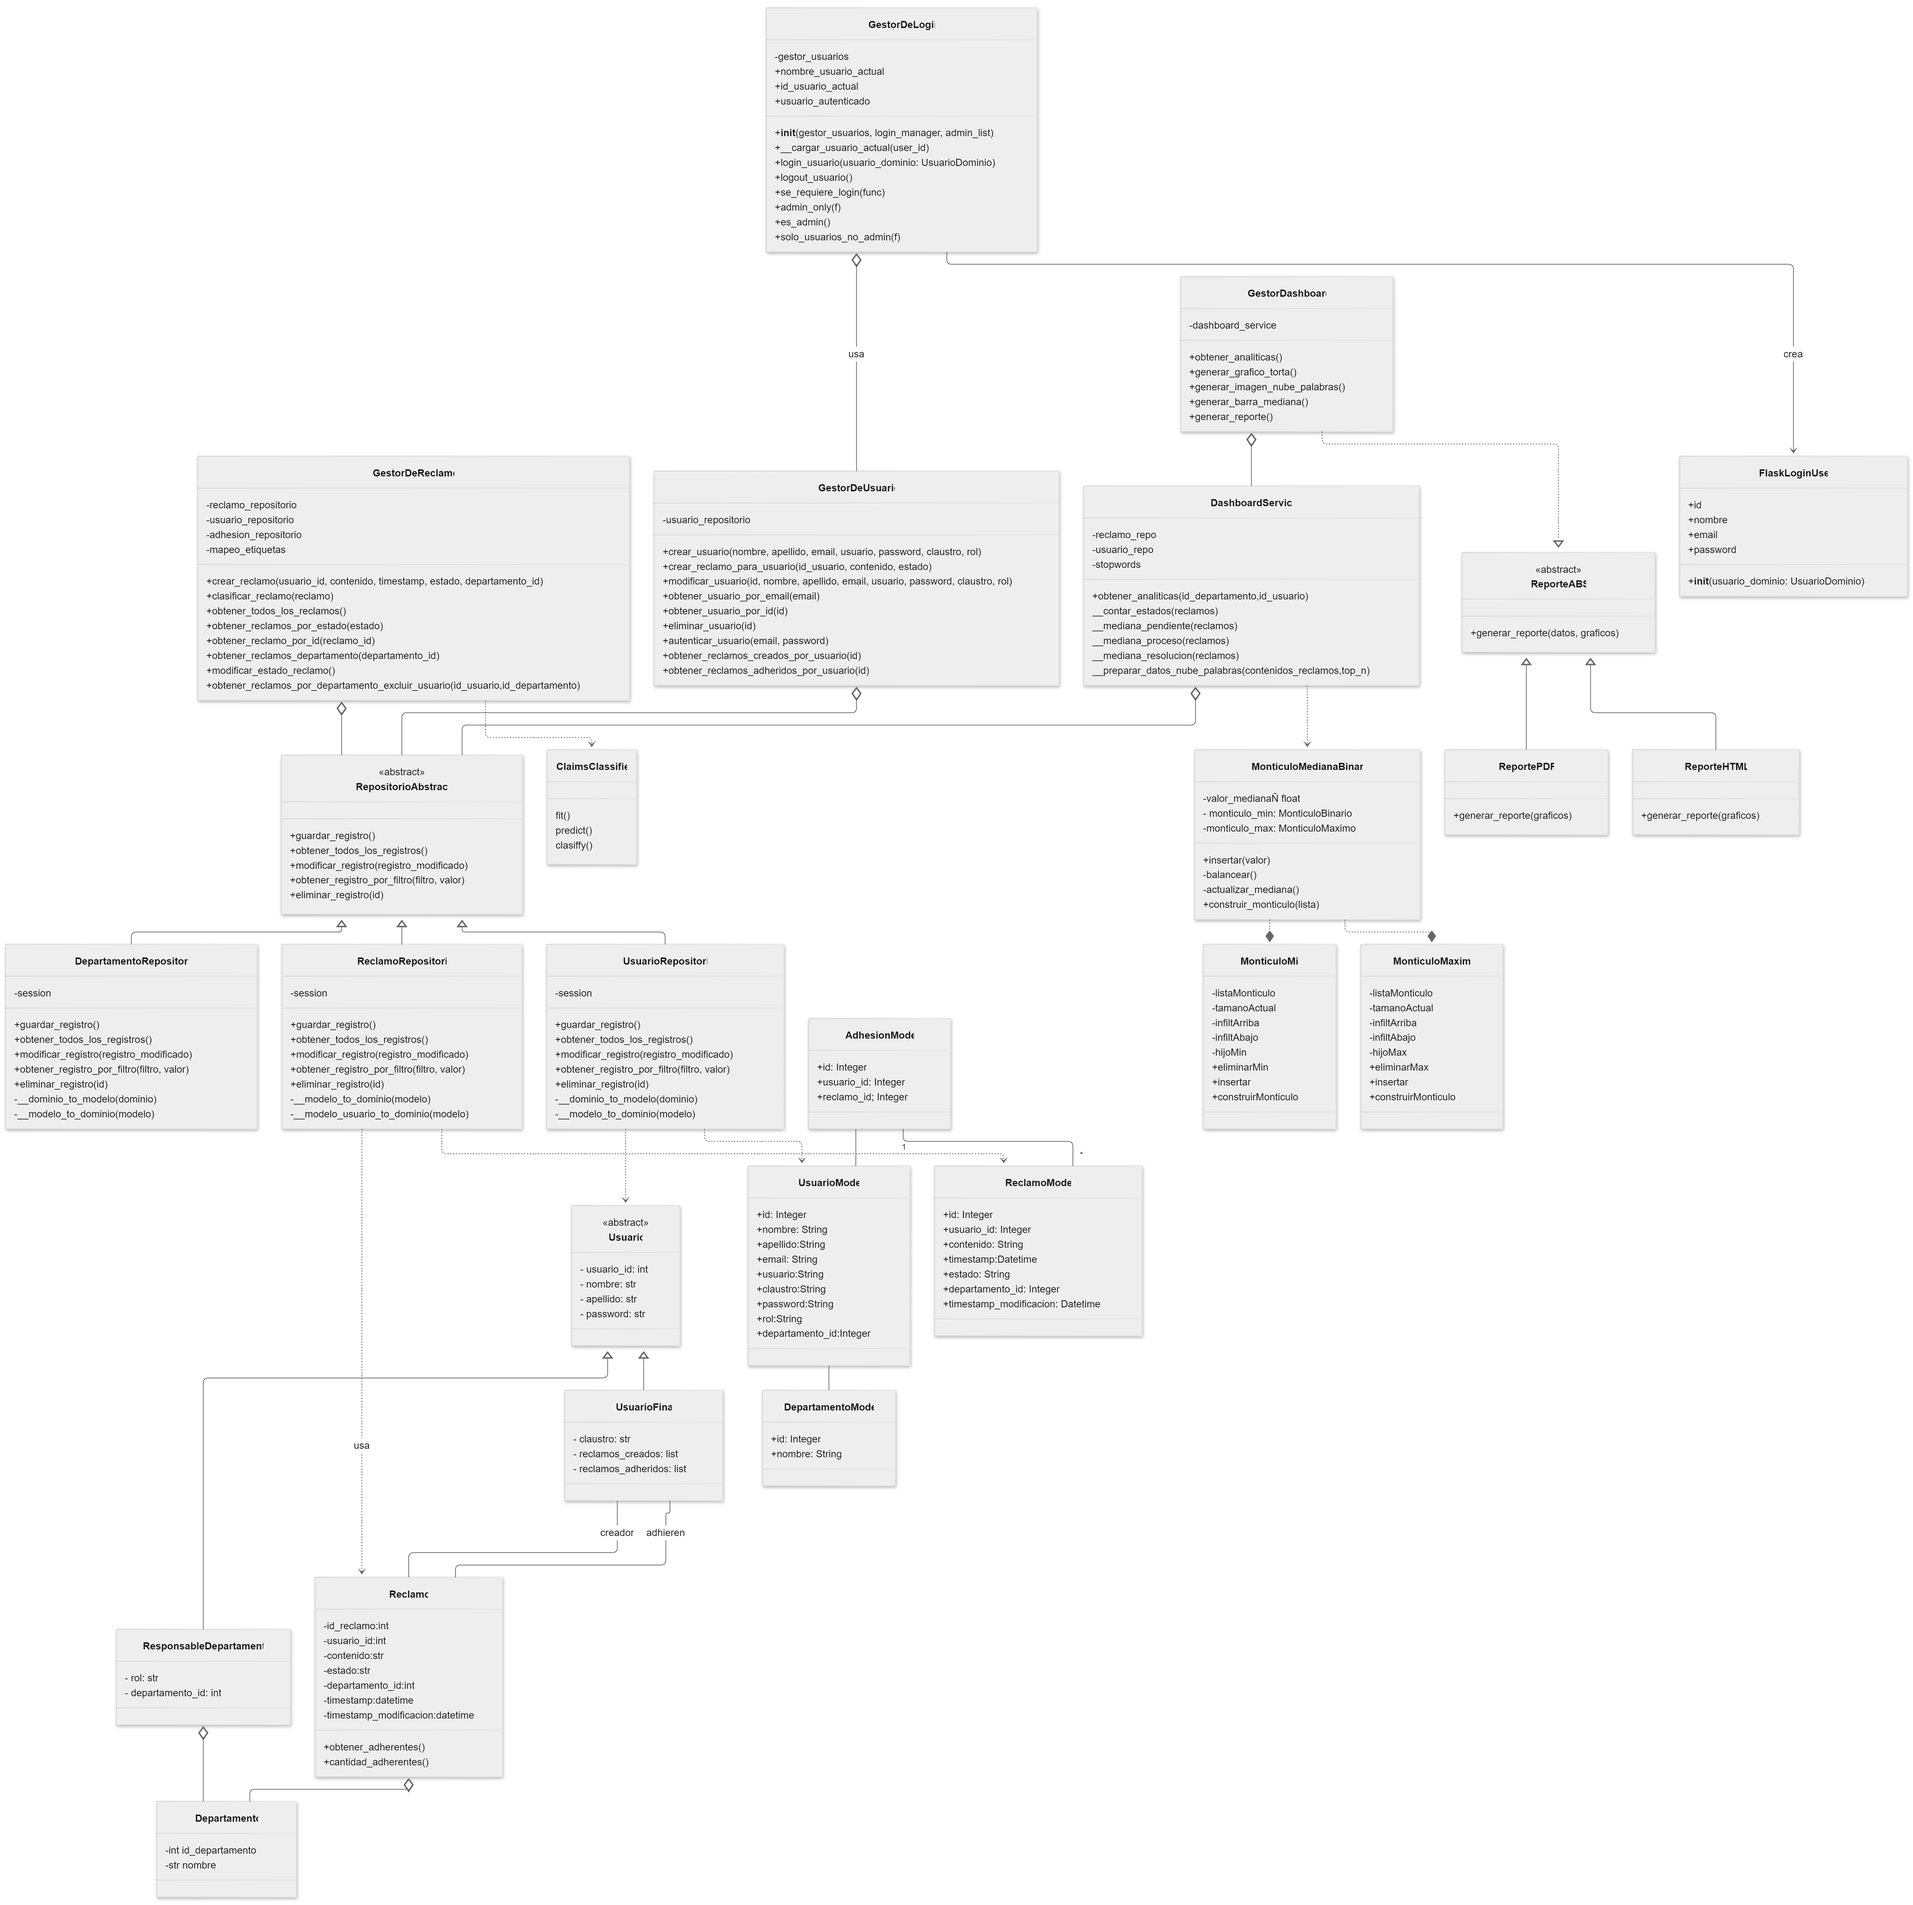
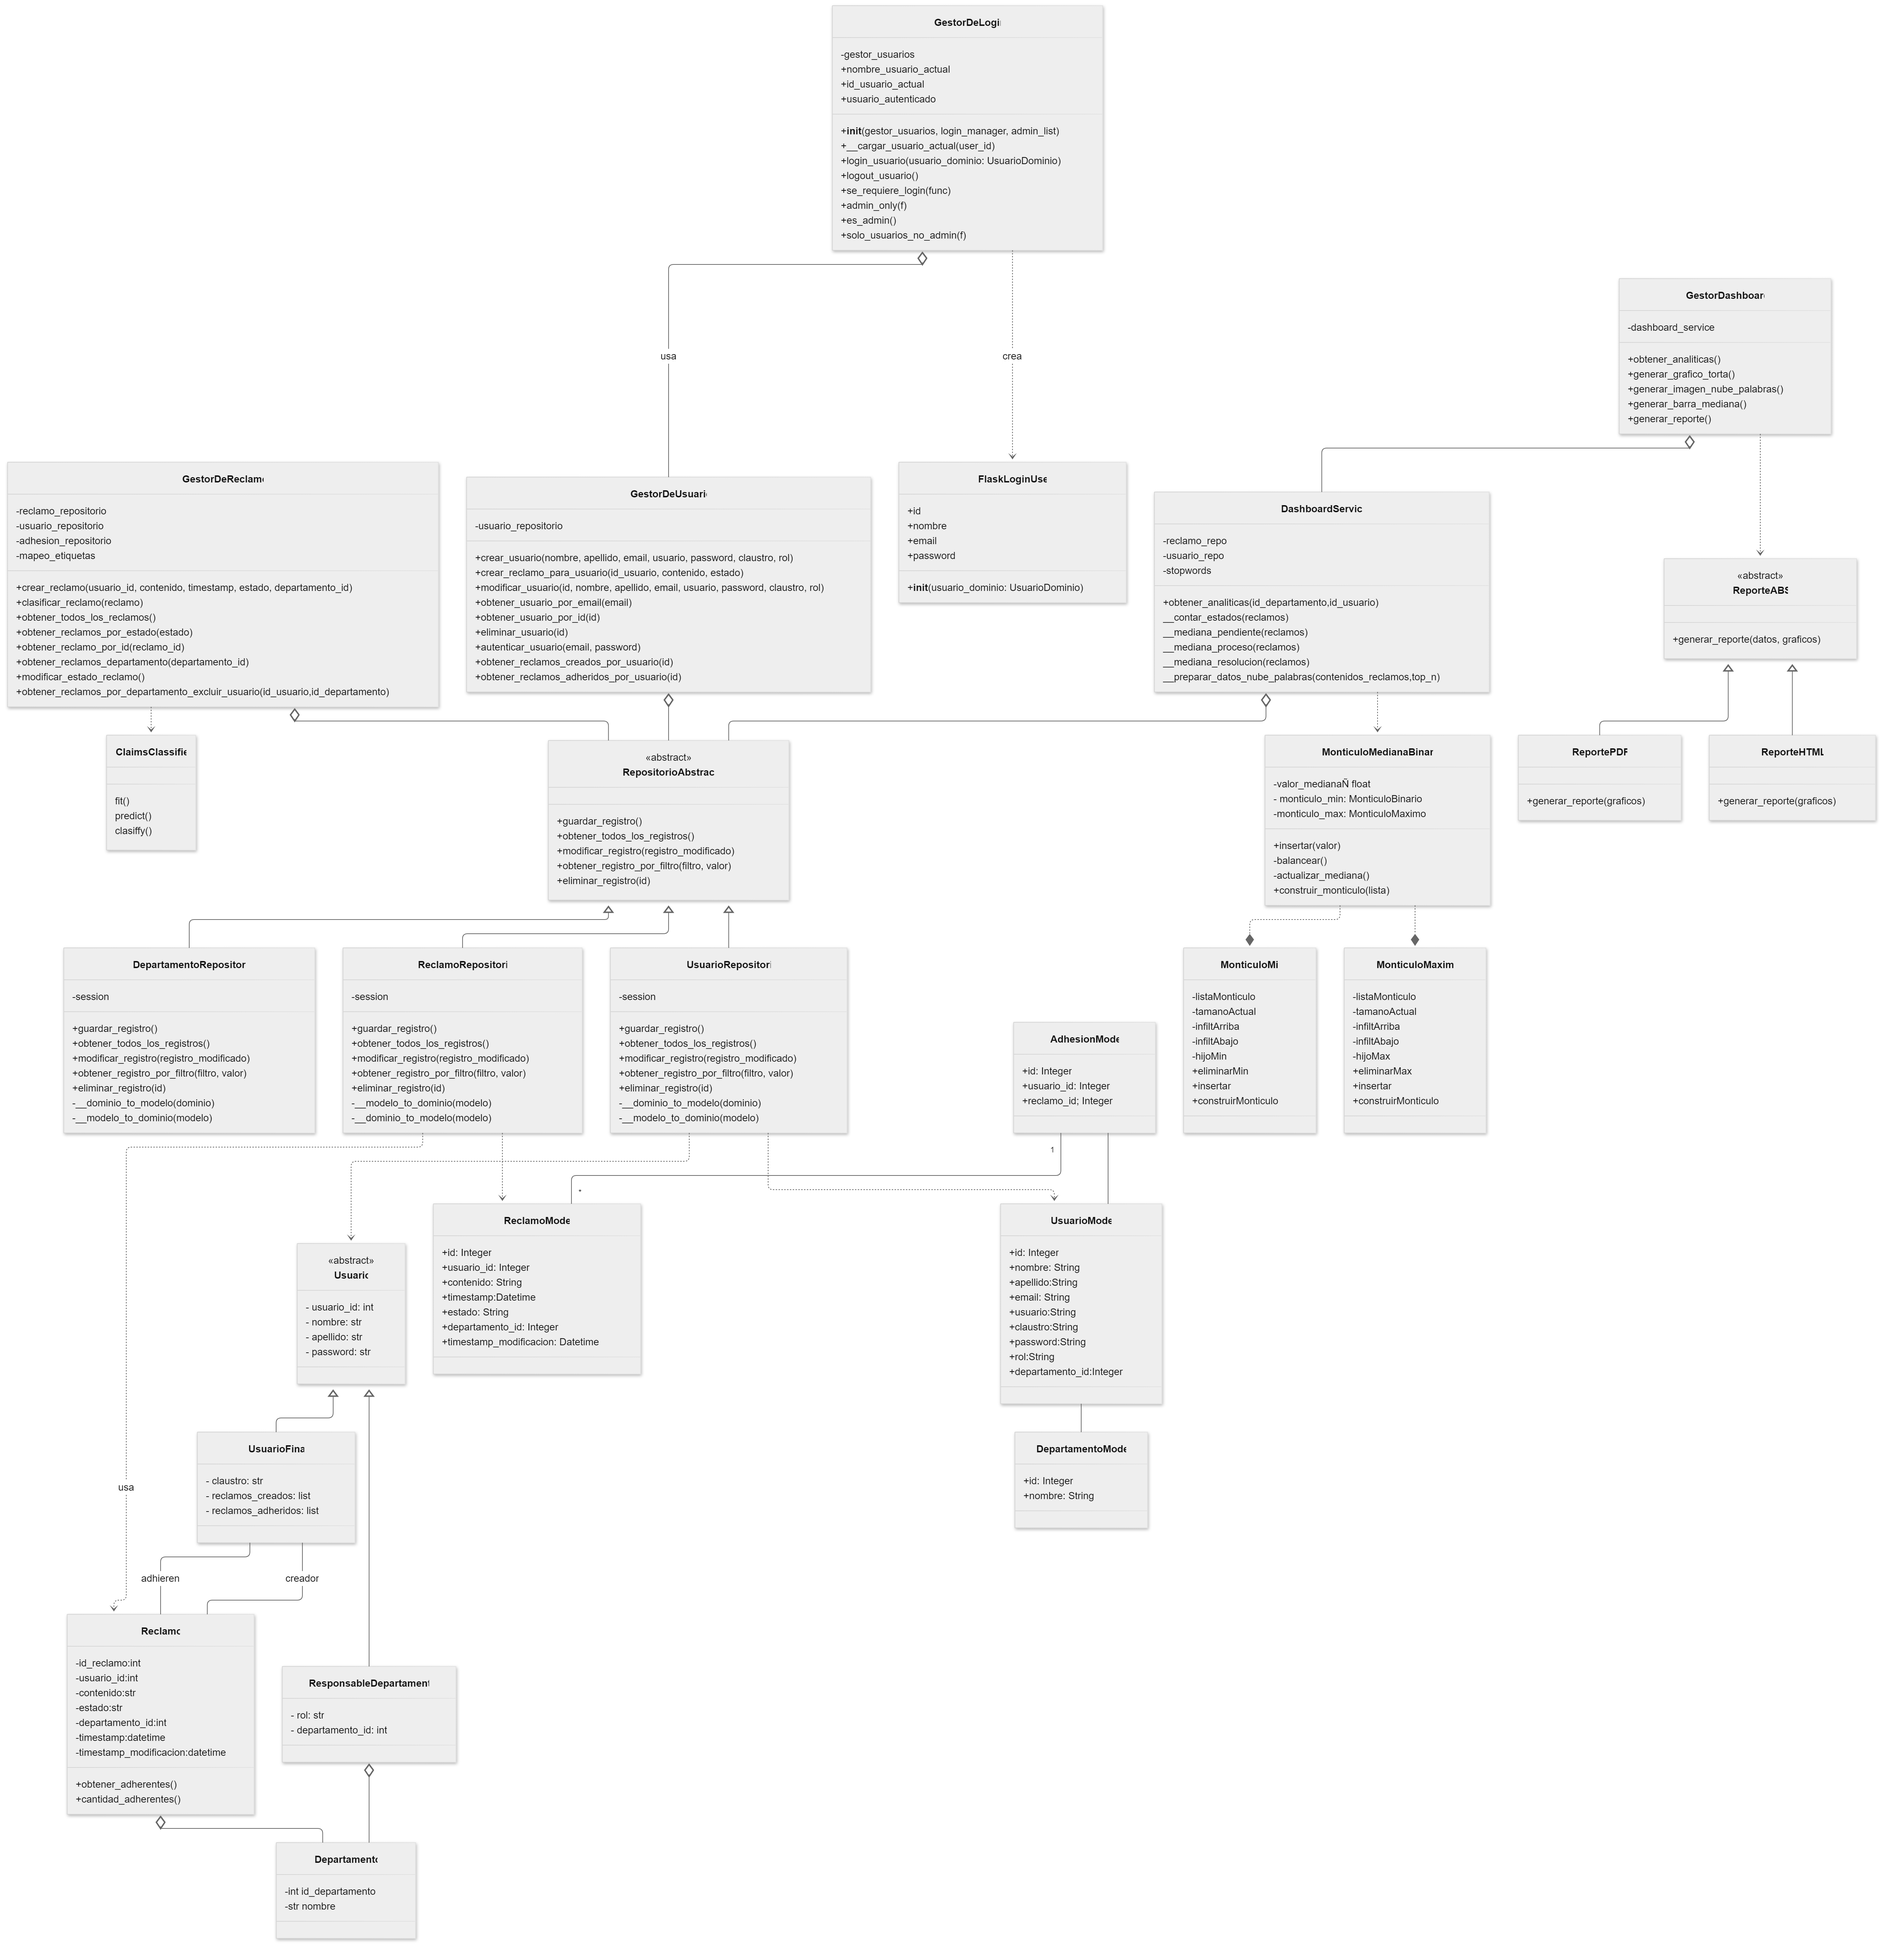
Refactor GestorDeReclamo to load classifier within method and clean up unused code in GestorDeLogin and MonticuloMaximo

diff --git a/TrabajoPractico_3/proyecto_1/modules/utilidades/monticulos/monticulomax.py b/TrabajoPractico_3/proyecto_1/modules/utilidades/monticulos/monticulomax.py
@@ -8,9 +8,9 @@ class MonticuloMaximo:
     # 1. El nuevo elemento "sube" hasta que encuentra un padre MAYOR.
     def infiltArriba(self, i):
         while i // 2 > 0:
-            # ¡CAMBIO! Comparamos si el hijo es MAYOR que el padre.
+            # Comparamos si el hijo es MAYOR que el padre.
             if self.listaMonticulo[i] > self.listaMonticulo[i // 2]:
-                # Intercambio (swap)
+                # Intercambio
                 tmp = self.listaMonticulo[i // 2]
                 self.listaMonticulo[i // 2] = self.listaMonticulo[i]
                 self.listaMonticulo[i] = tmp
@@ -21,30 +21,26 @@ class MonticuloMaximo:
         self.tamanoActual = self.tamanoActual + 1
         self.infiltArriba(self.tamanoActual)
 
-    # 2. Encuentra el hijo MÁS GRANDE para comparar con el padre.
+    # Encuentra el hijo MÁS GRANDE para comparar con el padre.
     def hijoMax(self, i):
         # Si no hay hijo derecho, el hijo izquierdo es el único.
         if i * 2 + 1 > self.tamanoActual:
             return i * 2
         else:
-            # ¡CAMBIO! Retornamos el índice del hijo MAYOR.
+            # Retornamos el índice del hijo MAYOR.
             if self.listaMonticulo[i * 2] > self.listaMonticulo[i * 2 + 1]:
                 return i * 2
             else:
                 return i * 2 + 1
-    
-    # Hemos renombrado 'hijoMin' a 'hijoMax' para claridad, pero la función es la misma.
-    # El método original 'hijoMin' en el Montículo de Mínimos buscaba el mínimo;
-    # este busca el máximo.
 
-    # 3. El nuevo elemento de la raíz "baja" hasta que encuentra hijos MENORES.
+    # El nuevo elemento de la raíz "baja" hasta que encuentra hijos MENORES.
     def infiltAbajo(self, i):
         # Usamos hijoMax para obtener el índice del hijo mayor.
         while (i * 2) <= self.tamanoActual:
             hm = self.hijoMax(i)
-            # ¡CAMBIO! Comparamos si el padre es MENOR que el hijo mayor.
+            # Comparamos si el padre es MENOR que el hijo mayor.
             if self.listaMonticulo[i] < self.listaMonticulo[hm]:
-                # Intercambio (swap)
+                # Intercambio
                 tmp = self.listaMonticulo[i]
                 self.listaMonticulo[i] = self.listaMonticulo[hm]
                 self.listaMonticulo[hm] = tmp

diff --git a/TrabajoPractico_3/proyecto_1/modules/gestores/gestor_login.py b/TrabajoPractico_3/proyecto_1/modules/gestores/gestor_login.py
@@ -16,7 +16,6 @@ class GestorDeLogin:
     def __init__(self, gestor_usuarios, login_manager):
         self.__gestor_usuarios = gestor_usuarios
         login_manager.user_loader(self.__cargar_usuario_actual)
-        #self.__admin_list = admin_list
 
     def __cargar_usuario_actual(self, user_id):
         usuario = self.__gestor_usuarios.obtener_usuario_por_id(user_id)
@@ -50,8 +49,6 @@ class GestorDeLogin:
         print("Usuario ha cerrado sesión")
         print(f"Usuario actual {current_user}")
 
-    # def se_requiere_login(self, func):
-    #     return login_required(func)
     
     def admin_only(self, f):
         @wraps(f)
@@ -59,7 +56,6 @@ class GestorDeLogin:
             if not current_user.is_authenticated:
                 flash("Por favor, inicia sesión como administrador para acceder a esta página.")
                 return redirect(url_for('login'))
-            #if current_user.id not in self.__admin_list:
             elif not current_user.admin:
                 return render_template('error.html', error="Acceso denegado: área restringida para administradores.", es_admin=False)
             return f(*args, **kwargs)
@@ -68,11 +64,9 @@ class GestorDeLogin:
     def solo_usuarios_no_admin(self, f):
         @wraps(f)
         def decorated_function(*args, **kwargs):
-
             if not current_user.is_authenticated:
                 flash("Por favor, inicia sesión para acceder a esta página.")
                 return redirect(url_for('login'))
-            
             elif current_user.admin:
                 return render_template('error.html', error="Acceso denegado: área restringida para administradores. Solo usuarios finales.", es_admin=True)
                 #abort(403)

diff --git a/TrabajoPractico_3/proyecto_1/modules/gestores/gestor_reclamo.py b/TrabajoPractico_3/proyecto_1/modules/gestores/gestor_reclamo.py
@@ -4,6 +4,8 @@ from modules.dominio.reclamo import ReclamoDominio,AdhesionDominio,Estado
 from sqlalchemy.exc import IntegrityError
 from datetime import datetime
 from modules.utilidades.comparador_de_reclamos import ComparadorDeReclamosABC  
+#from modules.classifier import clasificador
+import pickle
 
 class GestorDeReclamo:
     def __init__(self, reclamo_repositorio: RepositorioAbstracto, usuario_repositorio: RepositorioAbstracto, adhesion_repositorio: RepositorioAbstracto):
@@ -58,12 +60,14 @@ class GestorDeReclamo:
         except IntegrityError as e:
             raise ValueError(f"Error al adherir al reclamo: {str(e)}")
 
-    def clasificar_reclamo(self, reclamo: str, clasificador) -> int:
+    def clasificar_reclamo(self, reclamo: str) -> int:
         """
         Clasifica el reclamo utilizando el clasificador de texto.
         :param reclamo: contenido de ReclamoDominio a clasificar.
         :return: ID del departamento asignado.
         """
+        with open('./data/claims_clf.pkl', 'rb') as archivo:
+            clasificador = pickle.load(archivo)
         etiqueta = clasificador.classify([reclamo])
         etiqueta_departamento = etiqueta[0]
         departamento_id = self.__mapeo_etiquetas.get(etiqueta_departamento)

diff --git a/TrabajoPractico_3/proyecto_1/server.py b/TrabajoPractico_3/proyecto_1/server.py
@@ -13,8 +13,8 @@ from modules.utilidades.comparador_de_reclamos import ComparadorDeReclamos
 
 usuario_repo, reclamo_repo, departamento_repo, adhesion_repo = crear_repositorio()
 
-with open('./data/claims_clf.pkl', 'rb') as archivo:
-    clf = pickle.load(archivo)
+#with open('./data/claims_clf.pkl', 'rb') as archivo:
+#    clf = pickle.load(archivo)
 
 comparador_reclamos = ComparadorDeReclamos()
 gestor_usuarios = GestorDeUsuarios(usuario_repo)
@@ -81,7 +81,7 @@ def crear_reclamo():
         contenido = request.form["input_contenido"]
         timestamp = datetime.now()
         estado = 'PENDIENTE'
-        id_departamento = gestor_reclamo.clasificar_reclamo(contenido, clf)
+        id_departamento = gestor_reclamo.clasificar_reclamo(contenido)
         reclamos = gestor_reclamo.obtener_reclamos_por_departamento_excluir_usuario(id_departamento, usuario_id=usuario_id)
         reclamos = gestor_reclamo.encontrar_reclamos_similares(contenido, reclamos, comparador_reclamos)
 

diff --git a/TrabajoPractico_3/proyecto_1/modules/utilidades/monticulos/monticulobinario.py b/TrabajoPractico_3/proyecto_1/modules/utilidades/monticulos/monticulobinario.py
@@ -29,9 +29,7 @@ class MonticuloMedianaBinario():
         self.__actualizar_mediana()
 
     def __actualizar_mediana(self):
-        #if self.__monticulo_max.estaVacio() and self.__monticulo_min.estaVacio():
-            #return None
-        
+                
         # Si hay un número par de elementos, la mediana está en maxHeap
         if self.__monticulo_max.tamanoActual == self.__monticulo_min.tamanoActual:
             self._valor_mediana = (self.__monticulo_min.listaMonticulo[1] + self.__monticulo_max.listaMonticulo[1]) / 2
